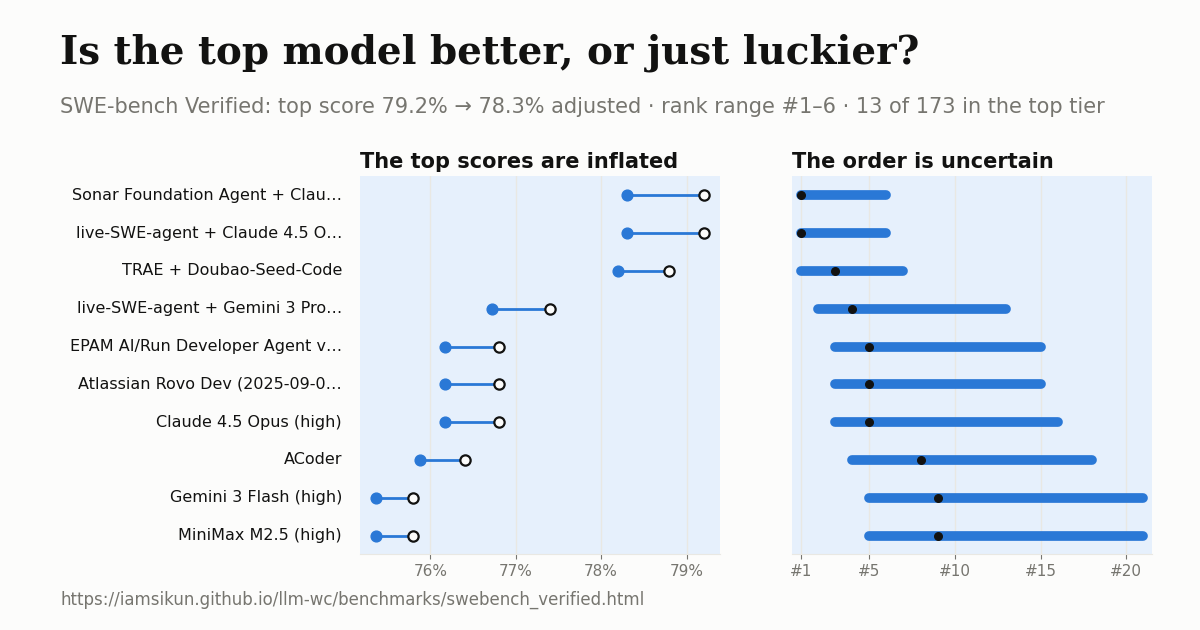
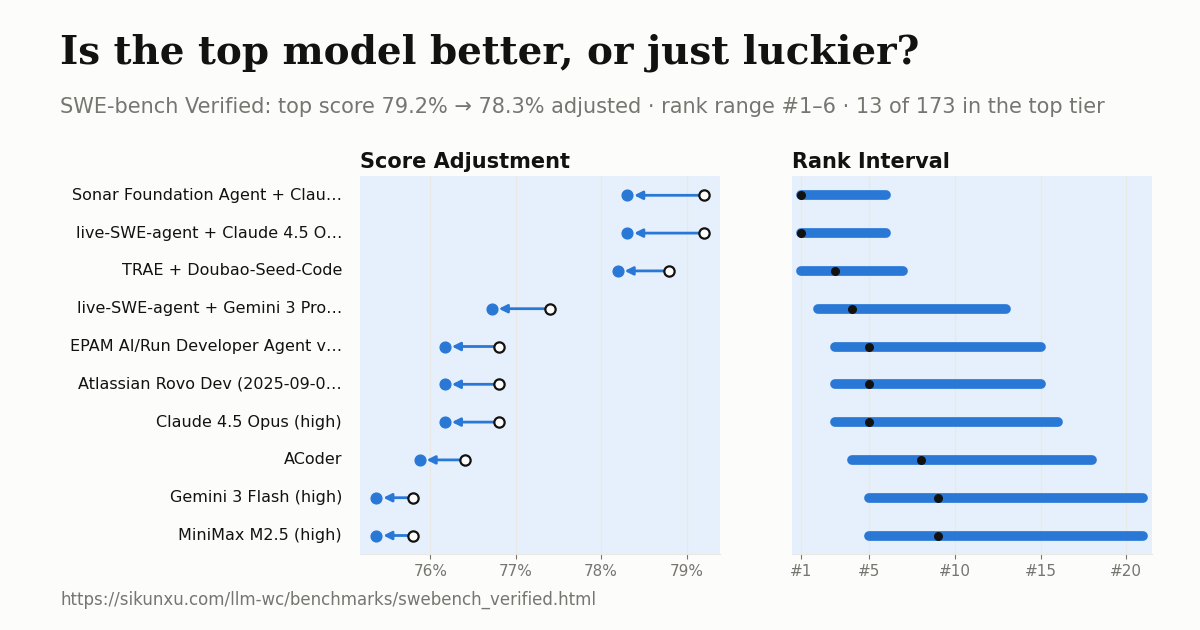
Drop the author line from the README and use the site's current headline image

diff --git a/README.md b/README.md
@@ -5,9 +5,6 @@
 [![Python 3.13+](https://img.shields.io/badge/python-3.13%2B-3776ab.svg?logo=python&logoColor=white)](https://www.python.org/downloads/)
 [![License: MIT](https://img.shields.io/badge/license-MIT-blue.svg)](LICENSE)
 
-[Sikun Xu](https://sikunxu.com/), [Raphael Thomadsen](https://sites.wustl.edu/thomadsen/),
-[Dennis J. Zhang](https://denniszhang.org), [Heng Zhang](https://sites.google.com/view/heng-zhang/home)
-
 **Is the top model better, or just luckier?** A leaderboard score is measured on
 a finite set of tasks, so part of it is luck. Sorting models by score rewards
 that luck: the top scores come out inflated, and the order is less certain than
